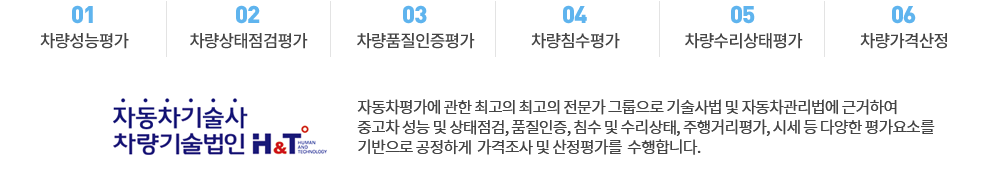
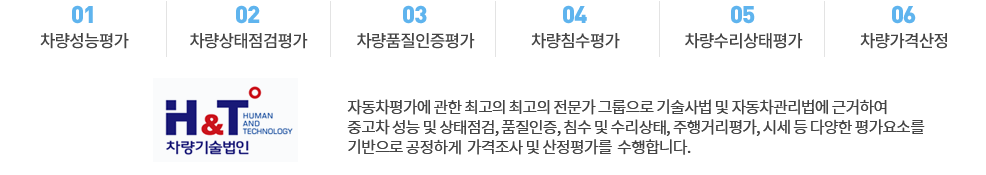
로고 변

Changed region(s): [[0.0913, 0.4857, 0.9432, 0.8857], [0.3347, 0.5714, 0.9128, 0.6571]]

diff --git a/resources/assets/themes/v1/web/css/common.css b/resources/assets/themes/v1/web/css/common.css
@@ -266,7 +266,8 @@ html, body {width:100%;height:100%;margin:0; padding:0;overflow-y:hidden;}
 
 .foot_link {position:relative;overflow:hidden;}
 .foot_link h1 {}
-.foot_link h1 img {position:relative;top:-5px;height:22px;}
+/*.foot_link h1 img {position:relative;top:-5px;height:22px;}*/
+.foot_link h1 img {position:relative;height:22px;}
 .foot_link ul {position:absolute;left:162px;top:0px;z-index:1;}
 .foot_link ul li {float:left;height:22px;border-right:1px solid #7f8388;}
 .foot_link ul li:last-child {border:0;}

diff --git a/resources/views/web/layouts/default.blade.php b/resources/views/web/layouts/default.blade.php
@@ -68,7 +68,7 @@
             <div id='foot_cont'>
                 <div class='foot_link'>
                     <h1><a href='/'>
-                            {{ Html::image(Helper::theme_web( '/img/comm/head_logo.png' )) }}
+                            {{ Html::image(Helper::theme_web( '/img/comm/head_logo2.png',array('style' => 'margin-top : 5px;') )) }}
                         </a></h1>
                     <ul>
                         <li><a class='{{ (Request::path() == "agreement/usage")? "foot_active": '' }}' href='{{ route('agreement.usage') }}'>이용약관</a></li>
@@ -80,7 +80,7 @@
                     <ul class='foot_desc_wrap'>
                         <li class='foot_desc'>
                             <strong>주식회사 짐브러스</strong>
-                            <p>주소 : 서울시 마포구 월드컵북로 402, 19충 1626호(상암동, KGIT센터)<br>
+                            <p>주소 : 서울시 마포구 월드컵북로 402, 10충 1026호(상암동, KGIT센터)<br>
                                대표자 : 황병도&nbsp;&nbsp;&nbsp;&nbsp;사업자 등록번호 : 646-88-00594<br>
 
                                통신판매업신고 : 제 2017-서울마포-1209호</p>
@@ -88,7 +88,7 @@
                         <li class='foot_desc'>
                             <strong>고객센터</strong>
                             <p>상담시간 : 오전 9:30분~오후 6시(토요일 및 공휴일은 휴무)<br>
-                                주소 : 서울시 마포구 월드컵북로 402, 10층 1626호(상암동, KGIT센터)<br>
+                                주소 : 서울시 마포구 월드컵북로 402, 10충 1026호(상암동, KGIT센터)<br>
                                 Tel : 1833-6889 Fax : 0505-333-6889</p>
                         </li>
                         <li class='foot_desc'>

diff --git a/resources/views/web/information/price.blade.php b/resources/views/web/information/price.blade.php
@@ -50,7 +50,7 @@
         <p>
             <span class='br30'>결제를 진행합니다.</span>
         </p>
-        <button class='btns btns2' type="button" id="find_garage">정비소 찾아보기</button>
+        {{--<button class='btns btns2' type="button" id="find_garage">정비소 찾아보기</button>--}}
     </div>
 
     <div class='intro3_step_box'>
